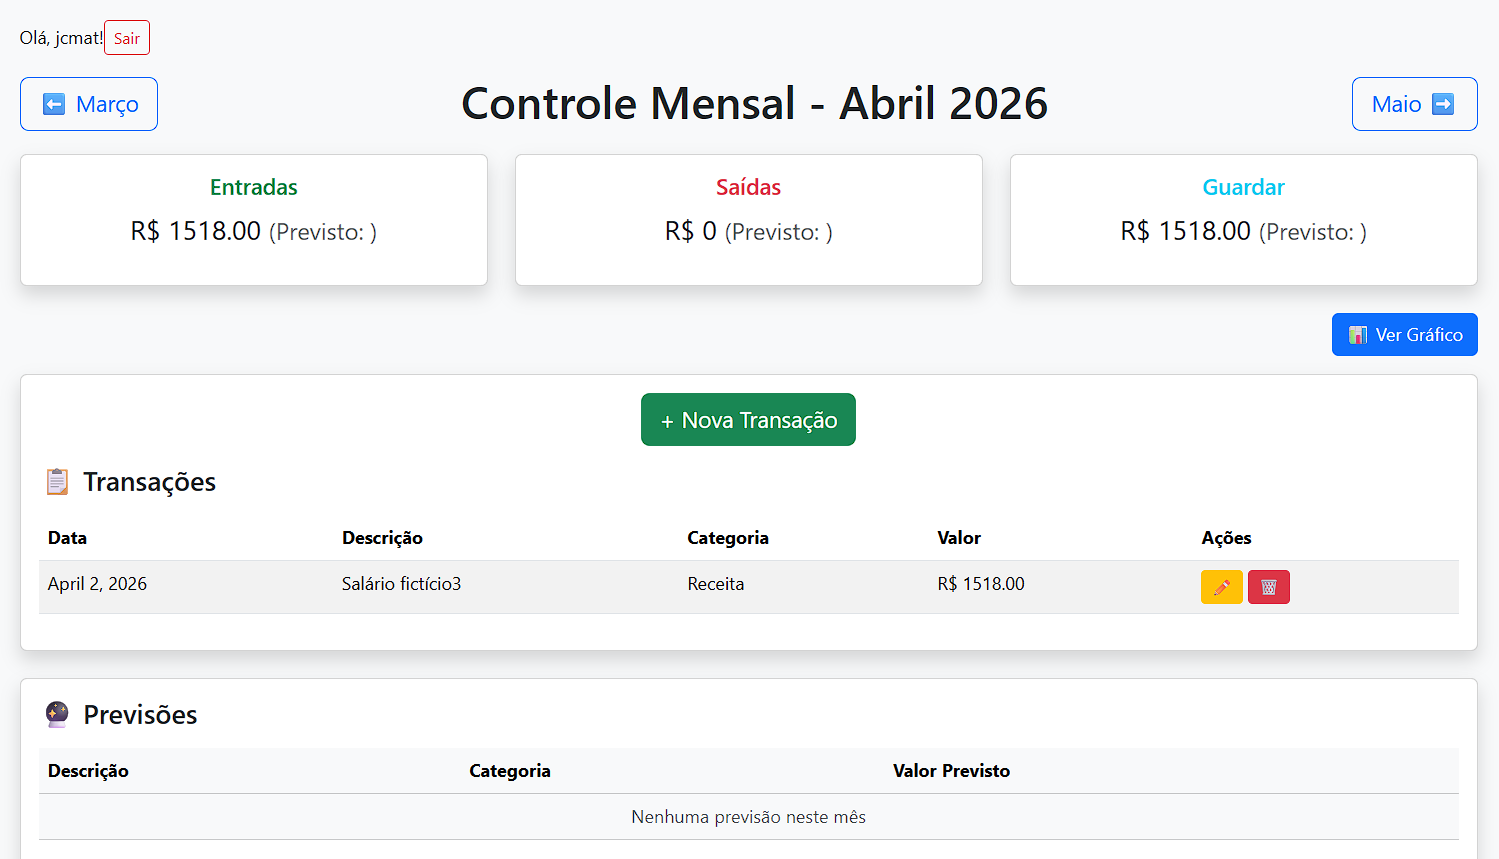
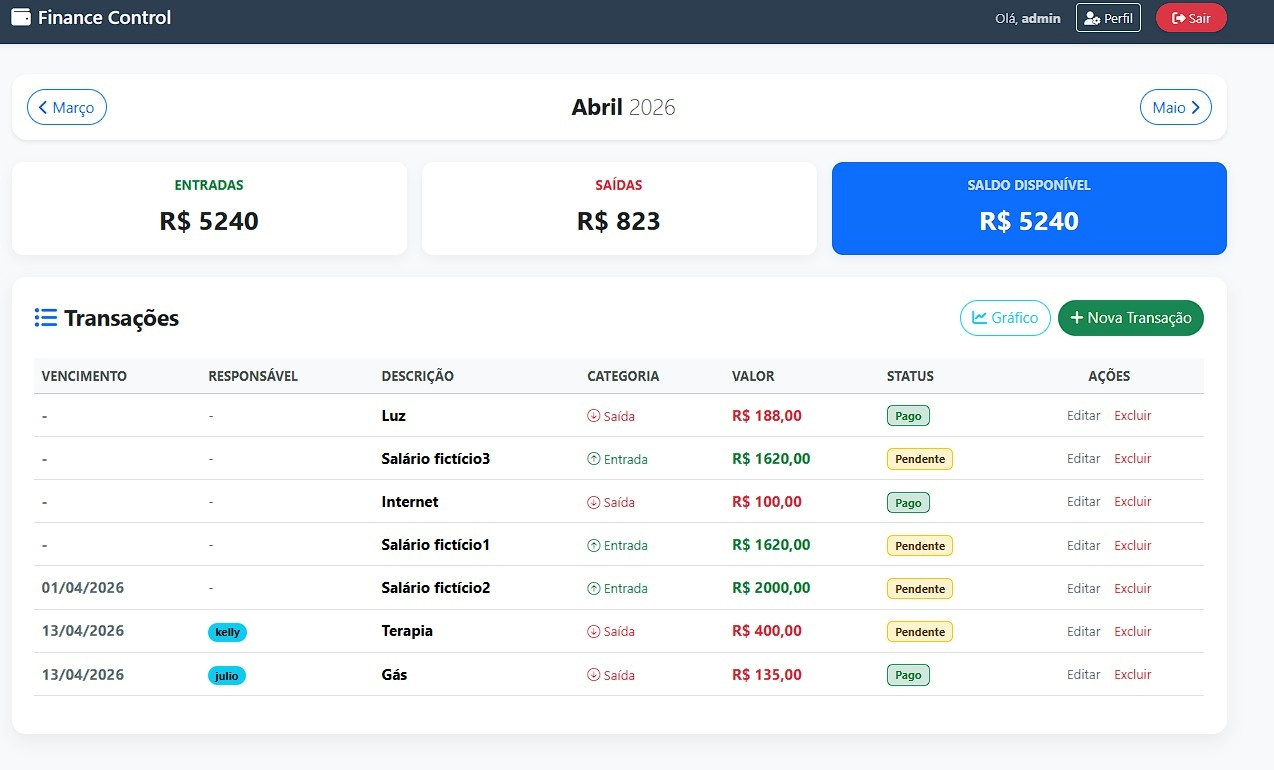
novoUpdate no README

diff --git a/README.md b/README.md
@@ -18,11 +18,11 @@ Diferente de sistemas básicos, este projeto implementa:
 
 | Dashboard Mensal | Análise com Gráficos |
 | :---: | :---: |
-| ![Dashboard](assets/images/dash.png) | ![Gráficos](assets/images/grafico.png) |
+| ![Dashboard](assets/images/dash.png) | ![Gráficos]("assets/images/relatorioEmGrafico.png") |
 
 | Gestão de Lançamentos | Edição e Exclusão |
 | :---: | :---: |
-| ![Cadastro](assets/images/addItem.png) | ![Edição](assets/images/editar.png) |
+| ![Cadastro](assets/images/novaTransacao.png) | ![Edição](assets/images/editarItem.png) |
 
 ---
 